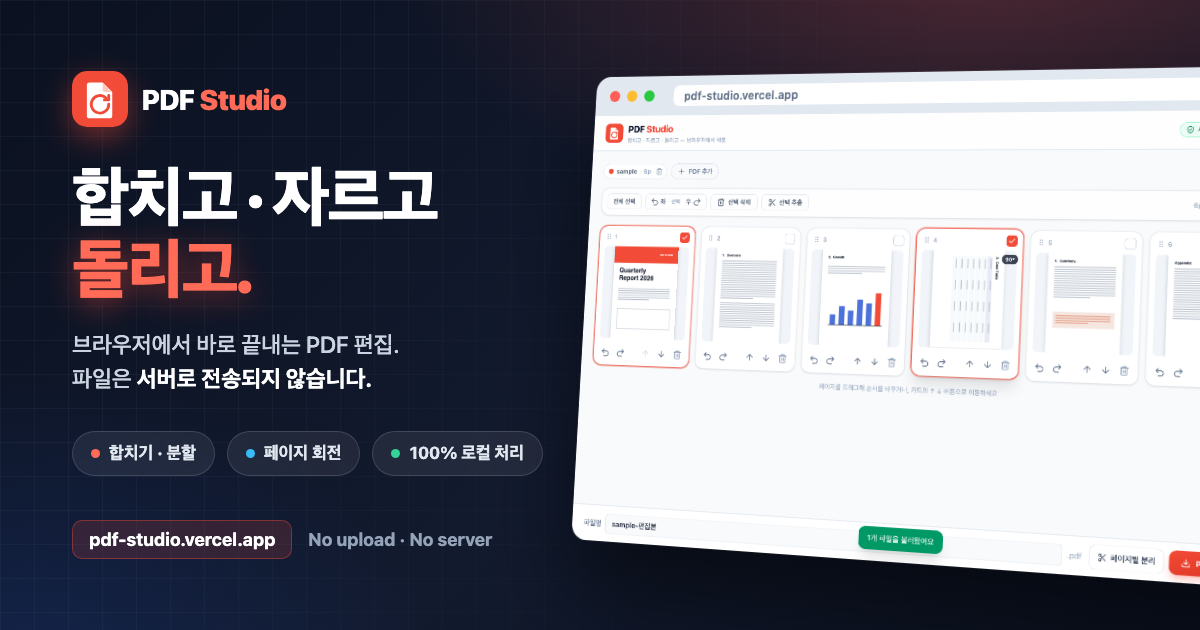
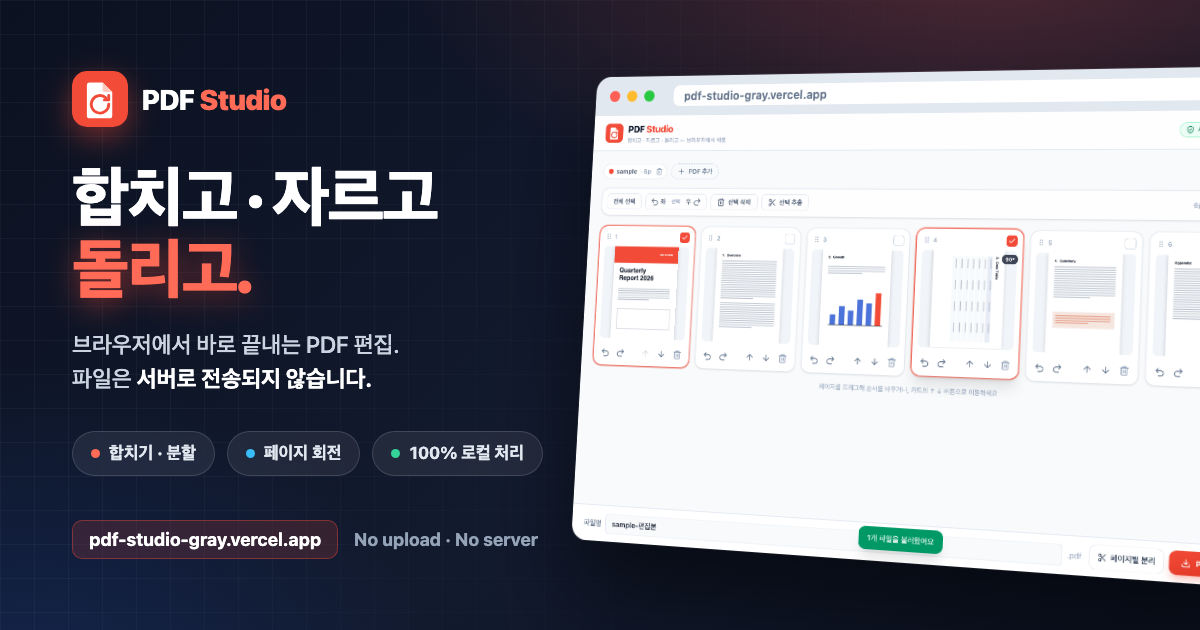
fix: 프로덕션 URL을 pdf-studio-gray.vercel.app로 갱신 (OG/README/포스터)

Changed region(s): [[0.1542, 0.8143, 0.4625, 0.9048], [0.6167, 0.1206, 0.6783, 0.181]]

diff --git a/index.html b/index.html
@@ -18,15 +18,15 @@
       property="og:description"
       content="합치고 · 자르고 · 돌리고. 서버 전송 없이 브라우저에서 끝내는 PDF 편집 툴."
     />
-    <meta property="og:image" content="https://pdf-studio.vercel.app/thumbnail.png" />
-    <meta property="og:url" content="https://pdf-studio.vercel.app" />
+    <meta property="og:image" content="https://pdf-studio-gray.vercel.app/thumbnail.png" />
+    <meta property="og:url" content="https://pdf-studio-gray.vercel.app" />
     <meta name="twitter:card" content="summary_large_image" />
     <meta name="twitter:title" content="PDF Studio — 브라우저에서 바로 PDF 편집" />
     <meta
       name="twitter:description"
       content="합치고 · 자르고 · 돌리고. 서버 전송 없이 브라우저에서 끝내는 PDF 편집 툴."
     />
-    <meta name="twitter:image" content="https://pdf-studio.vercel.app/thumbnail.png" />
+    <meta name="twitter:image" content="https://pdf-studio-gray.vercel.app/thumbnail.png" />
   </head>
   <body>
     <div id="root"></div>

diff --git a/docs/thumbnail.html b/docs/thumbnail.html
@@ -187,7 +187,7 @@
           <span class="d" style="background:#ff5f57"></span>
           <span class="d" style="background:#febc2e"></span>
           <span class="d" style="background:#28c840"></span>
-          <span class="addr">pdf-studio.vercel.app</span>
+          <span class="addr">pdf-studio-gray.vercel.app</span>
         </div>
         <img src="screenshot.png" alt="PDF Studio" />
       </div>
@@ -220,7 +220,7 @@
         </div>
 
         <div class="foot">
-          <span class="url">pdf-studio.vercel.app</span>
+          <span class="url">pdf-studio-gray.vercel.app</span>
           <span>No upload · No server</span>
         </div>
       </div>
